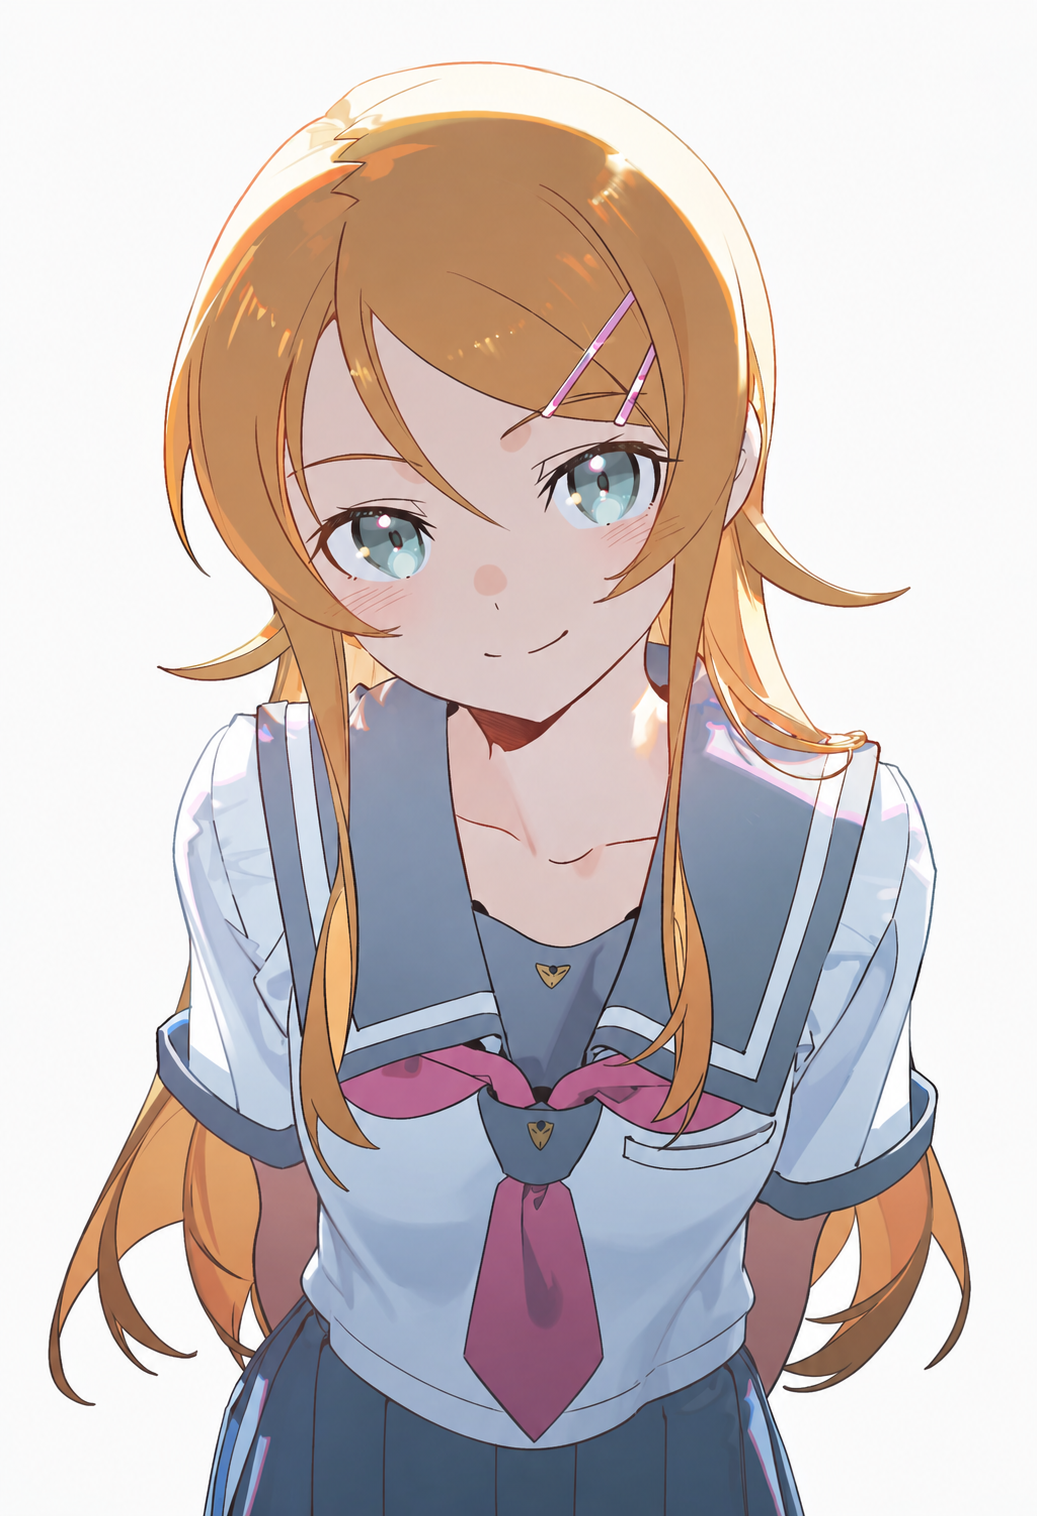
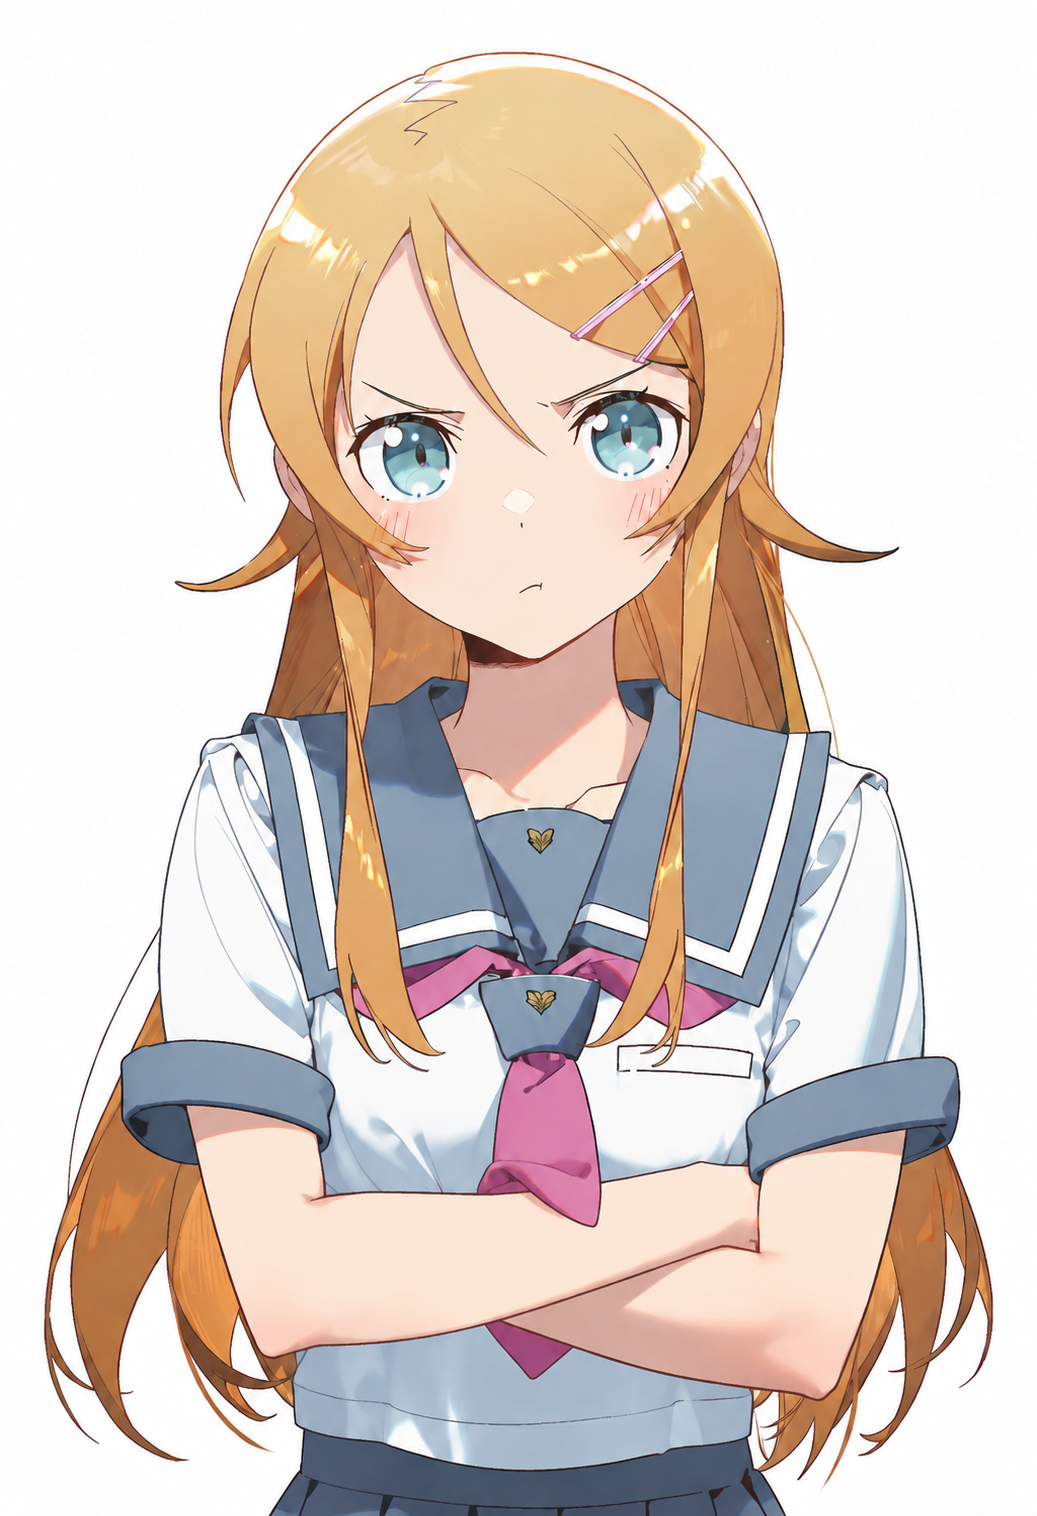
Update 高坂桐乃 default portrait

diff --git a/images/portraits/oreimo/kousaka-kirino/README.md b/images/portraits/oreimo/kousaka-kirino/README.md
@@ -1,9 +1,9 @@
 # 高坂桐乃 · 常规立绘
 
 - 当前文件：[default.png](default.png)。
-- 用户选定原图：`waist-adjusted.png`。
-- 尺寸：1037 × 1516；大小：1,505,135 字节。
[1 lines of base64/hex data omitted]
+- 用户选定原图：`hand-waist-fixed.png`。
+- 尺寸：1037 × 1516；大小：1,656,692 字节。
[1 lines of base64/hex data omitted]
 - PNG 模型记录：未知。
 - 可读取的生成参数：seed 未知；steps 未知；scale 未知；cfg_rescale 未知；sampler 未知；noise_schedule 未知。
 - 原图字节及内嵌数据完整保留，没有裁切、缩放、抠图或重新编码。
